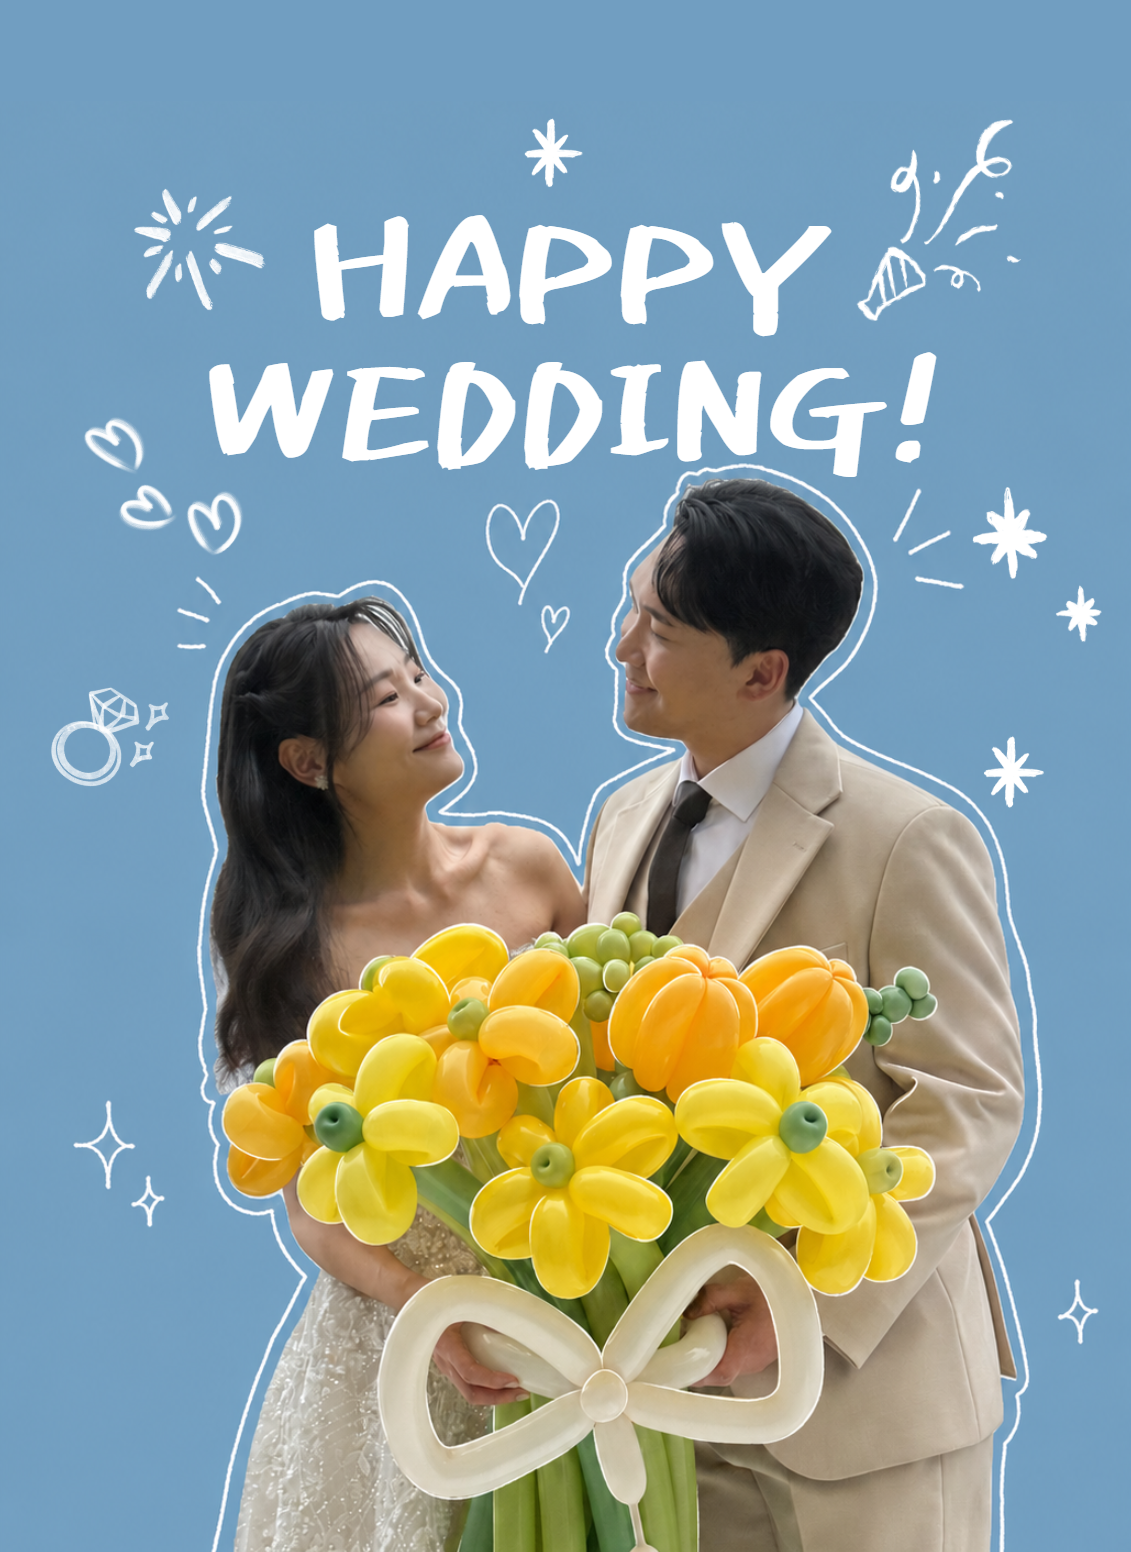
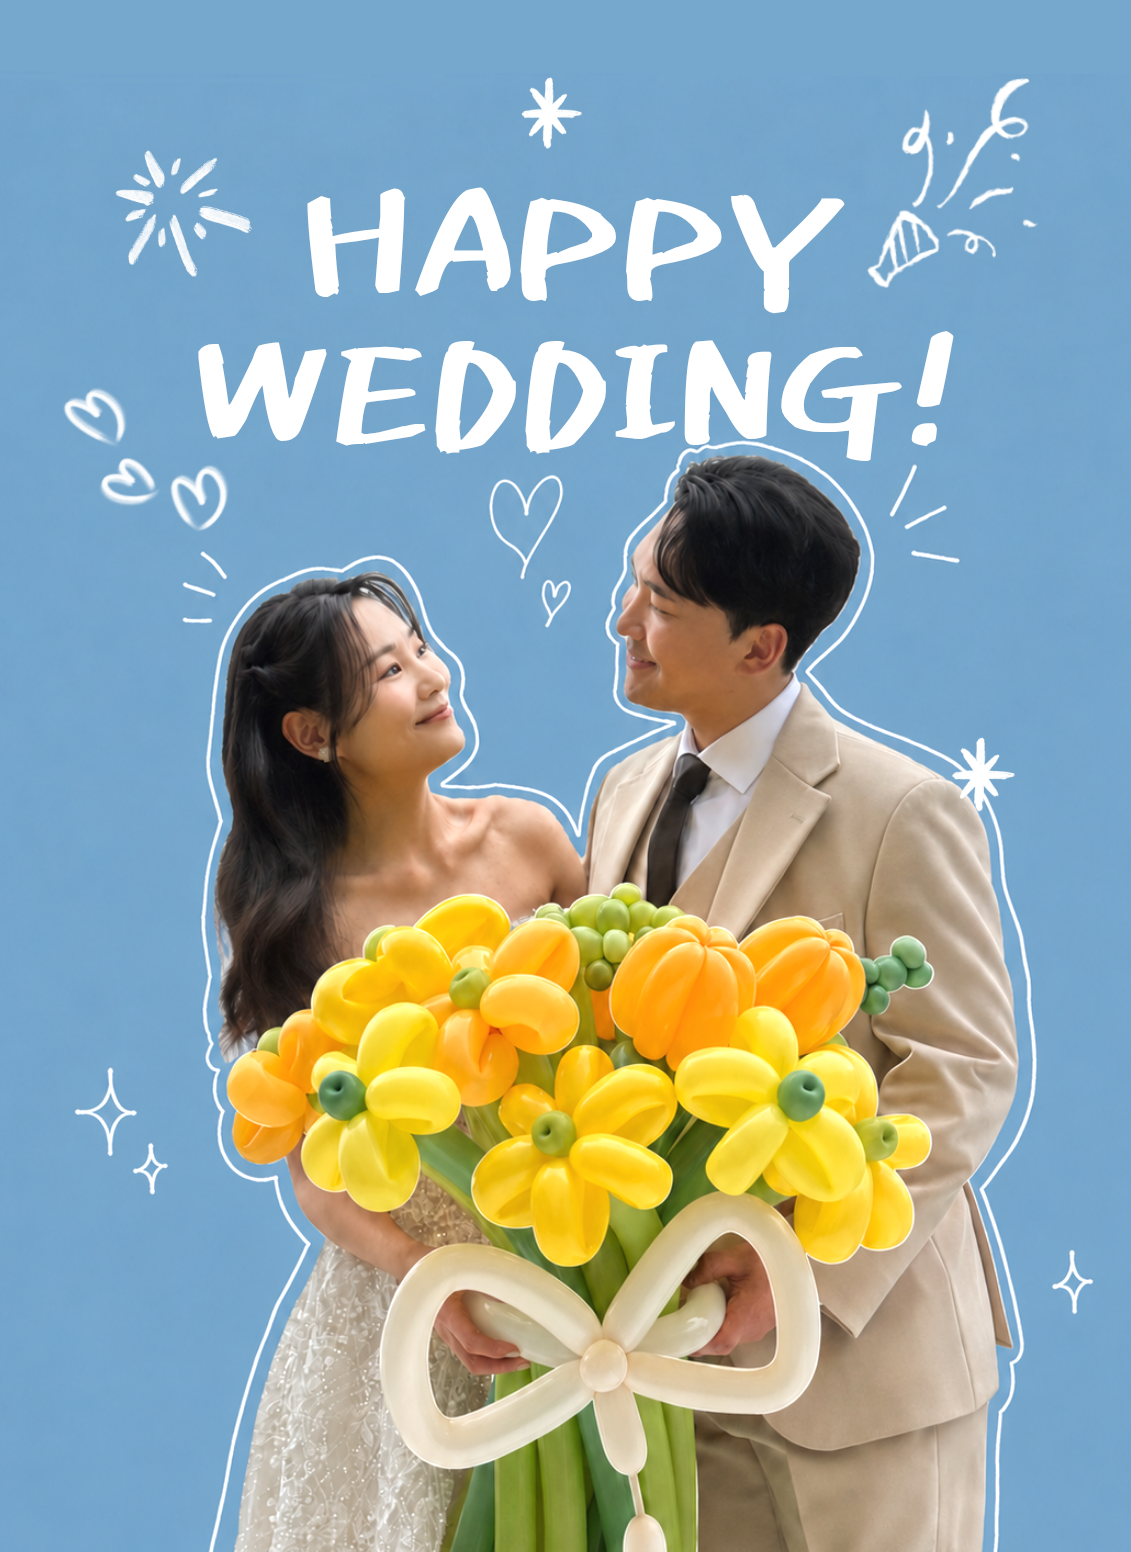
카카오 공유 이미지 교체

diff --git a/index.html b/index.html
@@ -9,7 +9,7 @@
     <meta property="og:description" content="2026년 10월 3일 오전 11시, 하우스 오브 더 라움" />
     <meta property="og:type" content="website" />
     <meta property="og:url" content="https://seonghun-hong.github.io/wedding/" />
-    <meta property="og:image" content="https://seonghun-hong.github.io/wedding/images/og.png?v=20260724b" />
+    <meta property="og:image" content="https://seonghun-hong.github.io/wedding/images/og.png?v=20260809" />
     <meta property="og:image:width" content="1131" />
     <meta property="og:image:height" content="1552" />
     <link rel="preload" as="image" href="/wedding/images/hero.webp" type="image/webp" />

diff --git a/src/components/FooterSection.tsx b/src/components/FooterSection.tsx
@@ -12,7 +12,7 @@ declare global {
 
 const WEDDING_URL = "https://seonghun-hong.github.io/wedding/";
 const KAKAO_IMAGE_URL =
-  "https://seonghun-hong.github.io/wedding/images/og.png?v=20260724b";
+  "https://seonghun-hong.github.io/wedding/images/og.png?v=20260809";
 
 export function FooterSection() {
   const [toast, setToast] = useState("");
